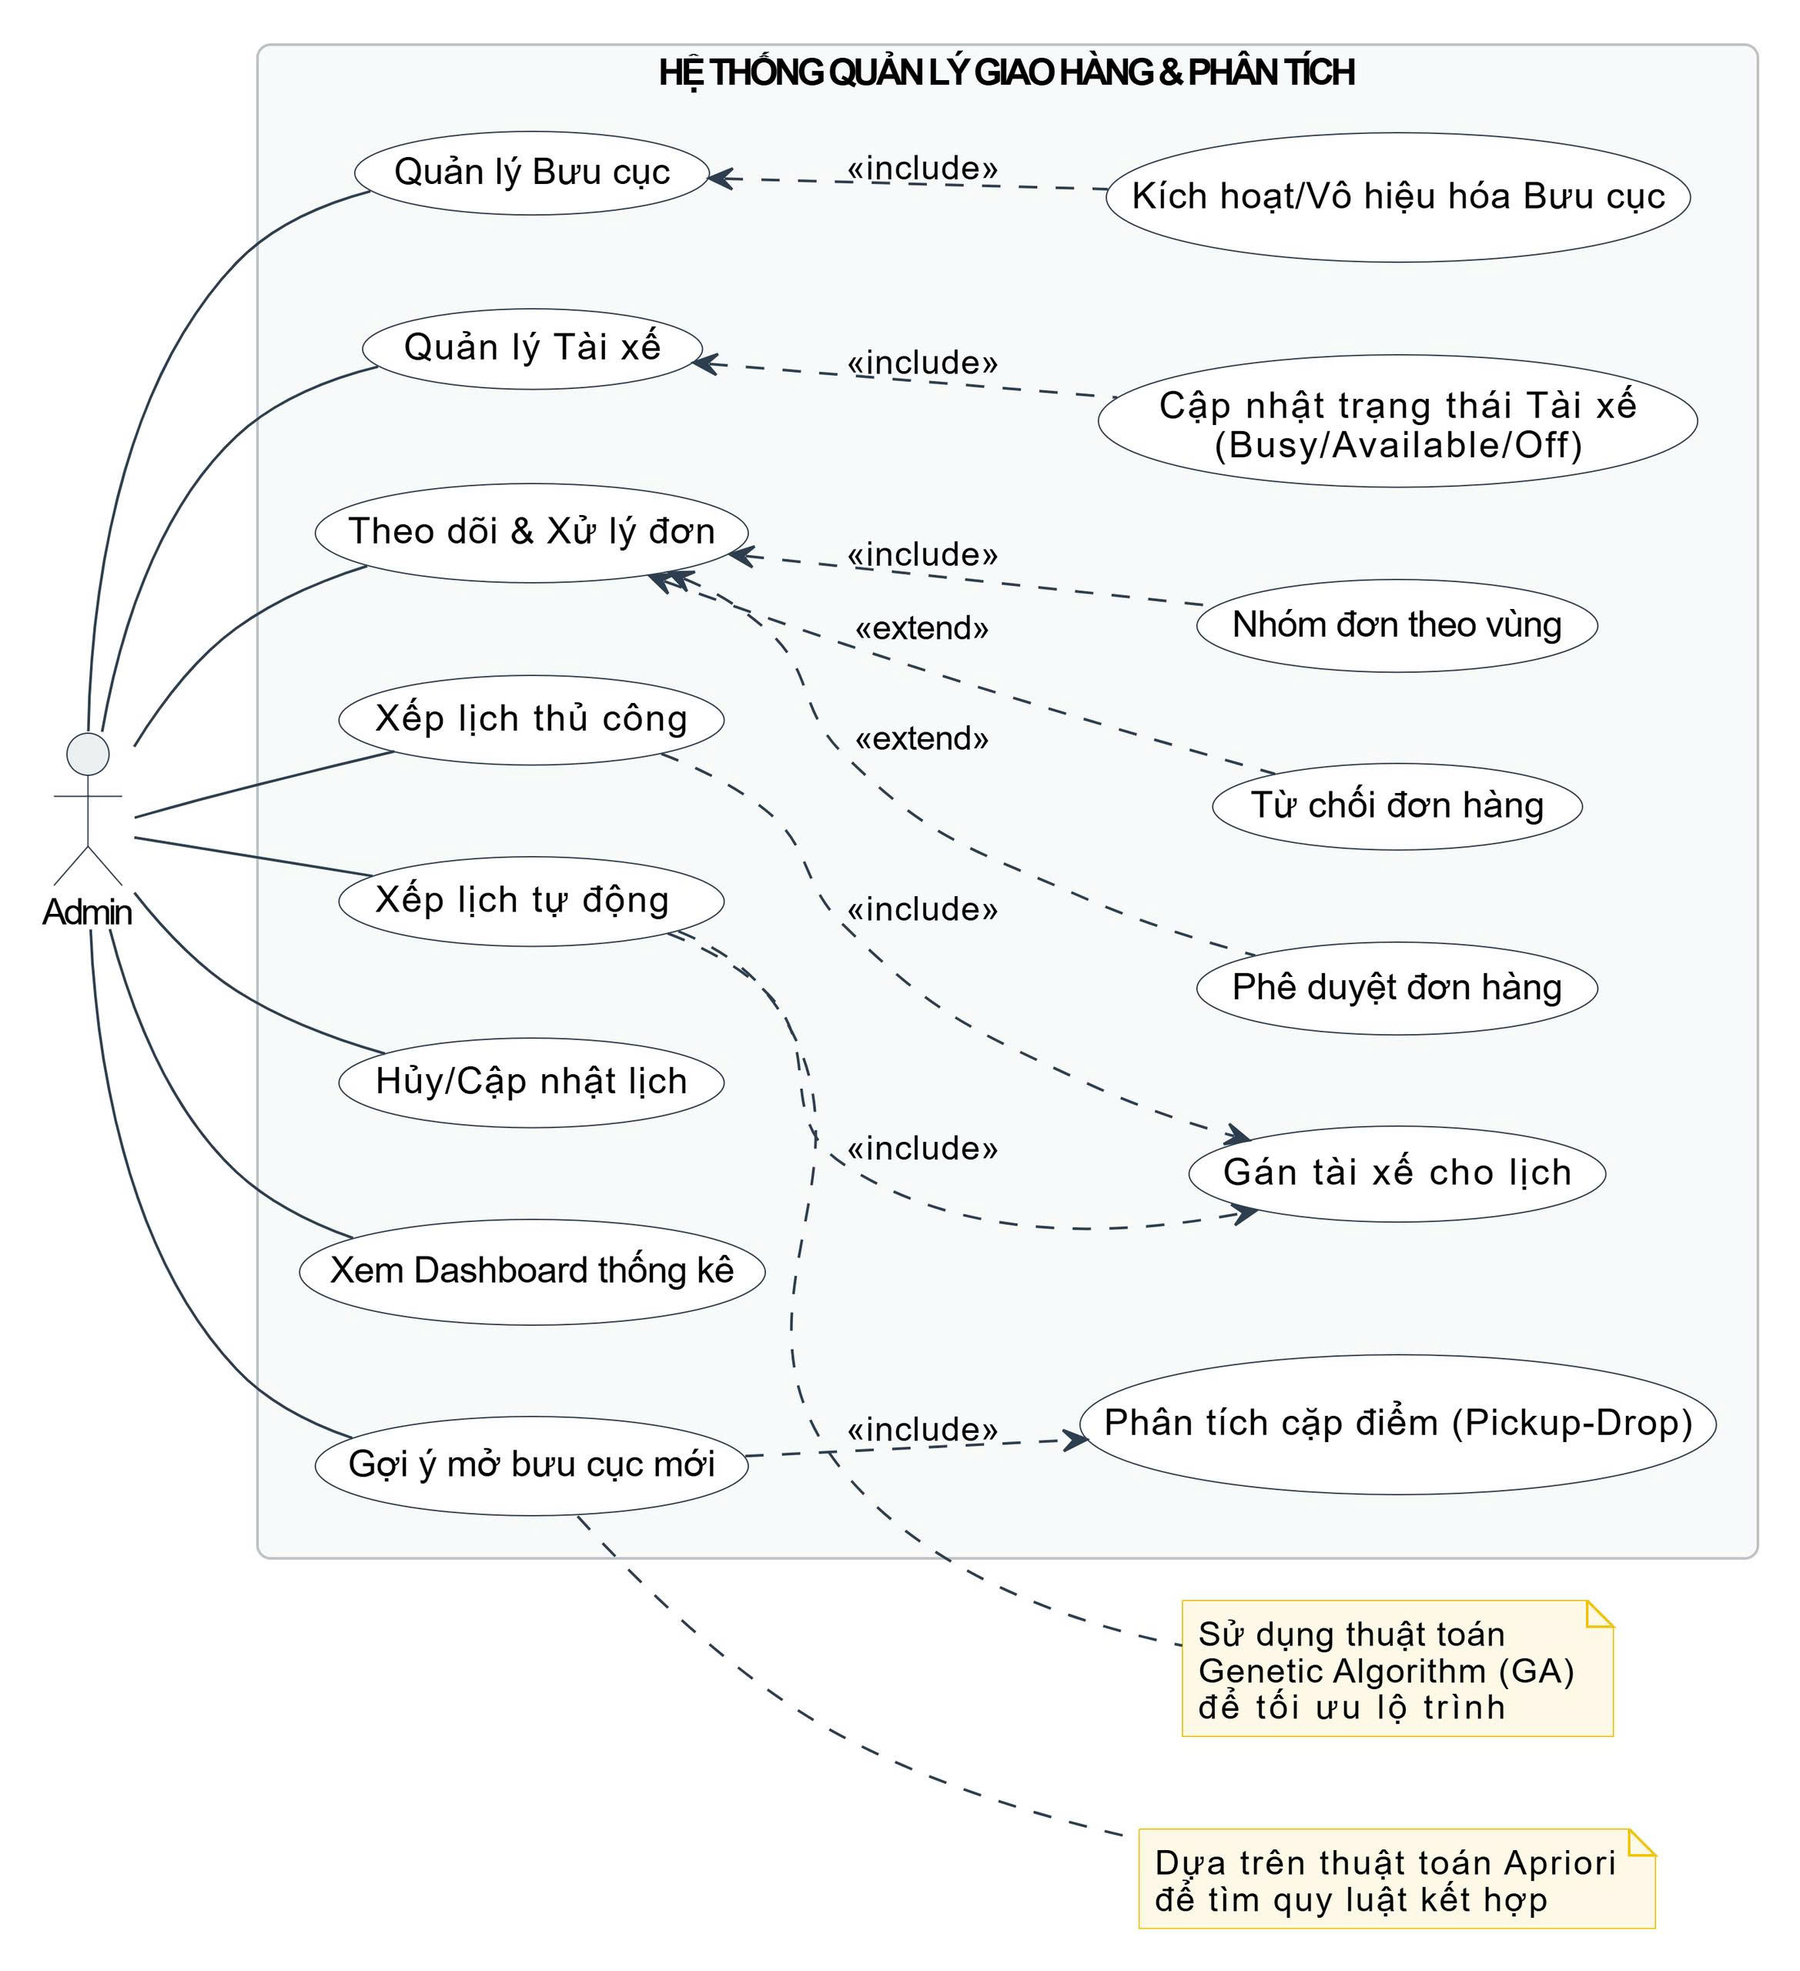
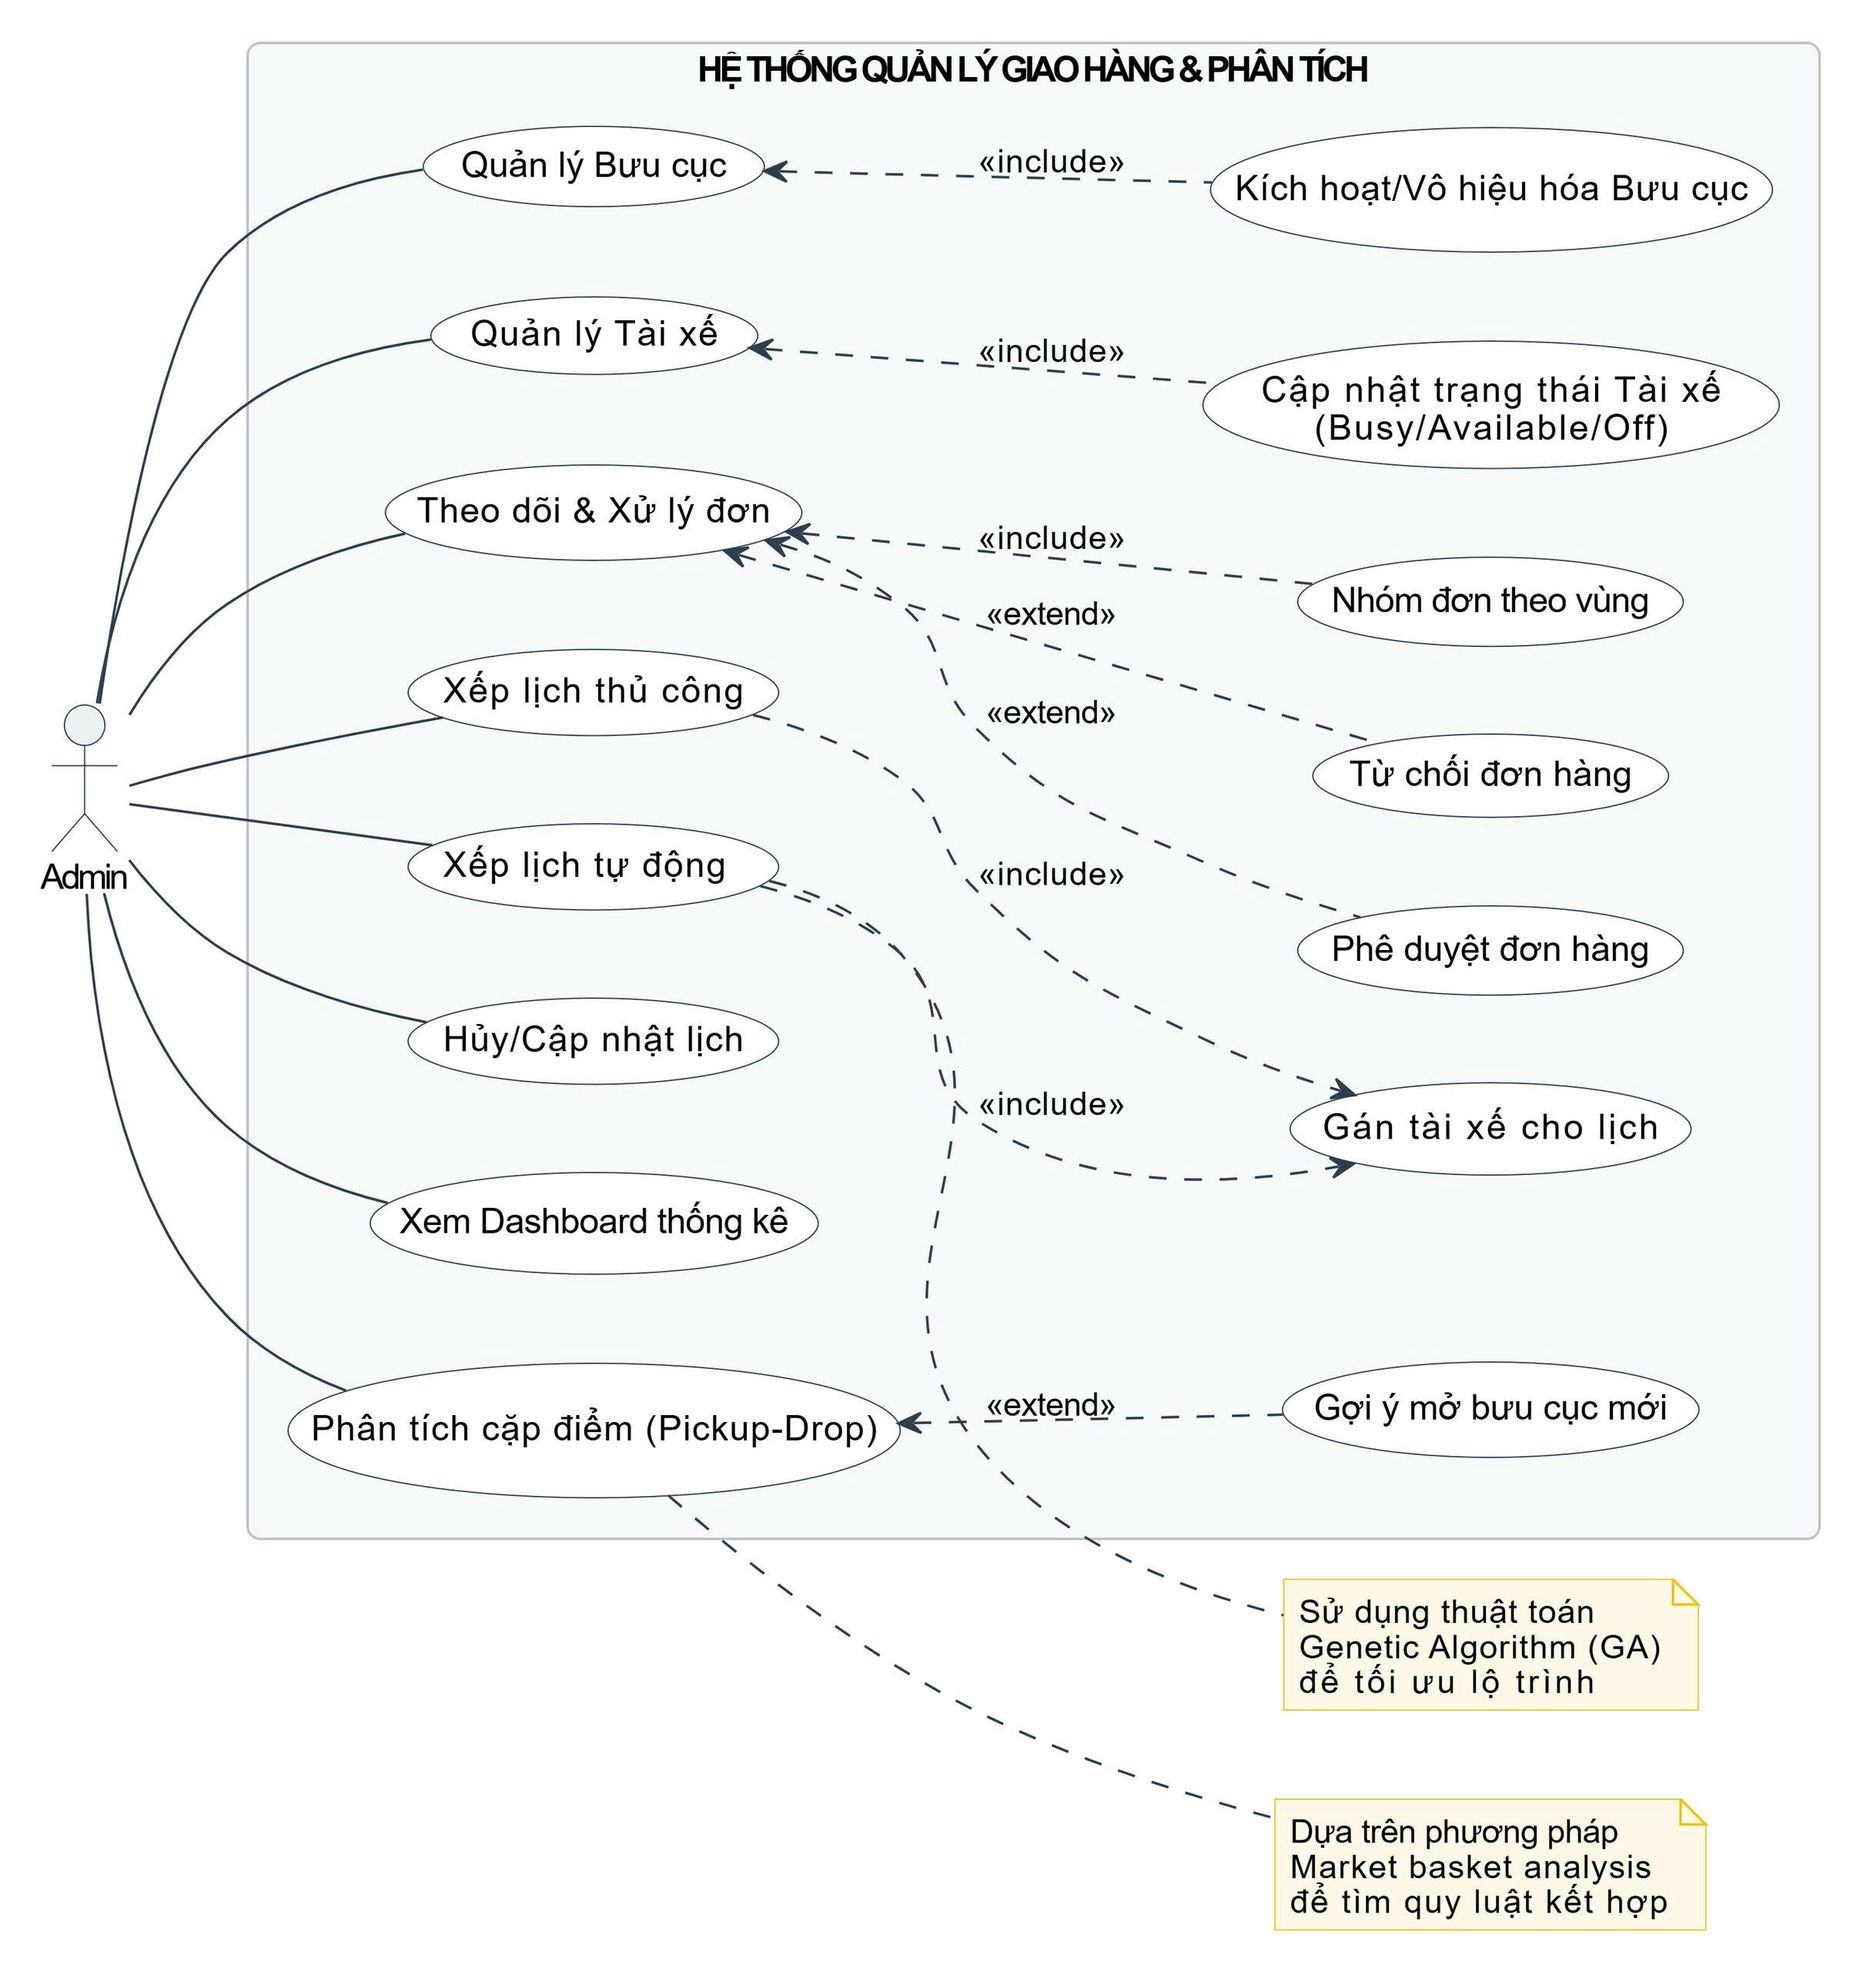
update

diff --git a/chapters/chapter3/section3-1.tex b/chapters/chapter3/section3-1.tex
@@ -1085,27 +1085,31 @@ Dưới đây là bảng đặc tả chi tiết cho các Use case quan trọng c
 \end{tabular}
 \end{table}
 
-% --- UC-08: GỢI Ý MỞ BƯU CỤC MỚI ---
+% --- UC-22: PHÂN TÍCH CẶP ĐIỂM ---
 \begin{table}[H]
 \centering
-\caption{UC-22: Gợi ý mở bưu cục mới (Analytics)}
+\caption{UC-22: Phân tích cặp điểm giao nhận }
 \renewcommand{\arraystretch}{1.3}
 \begin{tabular}{|p{3.5cm}|p{11cm}|}
 \hline
-\textbf{Tên Use Case} & Gợi ý mở bưu cục mới \\ \hline
+\textbf{Tên Use Case} & Phân tích cặp điểm giao nhận \\ \hline
 \textbf{Actor} & Admin  \\ \hline
-\textbf{Mô tả} & Hệ thống sử dụng thuật toán phân tích giỏ hàng (Market Basket Analysis - Apriori) để phân tích tần suất các tuyến đường và gợi ý vị trí tiềm năng đặt bưu cục mới. \\ \hline
-\textbf{Tiền điều kiện} & Dữ liệu lịch sử đơn hàng đủ lớn được lưu trong Database. \\ \hline
+\textbf{Mô tả} & Hệ thống sử dụng kỹ thuật để khai phá dữ liệu, tìm ra mối tương quan và tần suất xuất hiện cùng nhau giữa điểm lấy hàng (Pickup) và điểm giao hàng (Drop), từ đó nhận diện các "tuyến đường nóng". \\ \hline
+\textbf{Tiền điều kiện} & Dữ liệu lịch sử đơn hàng (gồm tọa độ nhận/giao) đủ lớn và đã được làm sạch. \\ \hline
 \textbf{Luồng chính} &
 \begin{enumerate}
-    \item Actor chọn module Phân tích nâng cao.
-    \item Actor chọn chức năng "Gợi ý địa điểm".
-    \item Actor thiết lập tham số (Độ hỗ trợ tối thiểu - Min Support).
-    \item Hệ thống chạy thuật toán khai phá dữ liệu trên các cặp điểm giao nhận phổ biến.
-    \item Hệ thống hiển thị danh sách các khu vực có nhu cầu cao nhưng chưa có bưu cục phủ sóng.
-    \item Hệ thống hiển thị dự báo doanh thu nếu mở bưu cục tại đó.
+    \item Actor chọn module phân tích vận hành.
+    \item Actor chọn chức năng phân tích luồng tuyến.
+    \item Actor thiết lập tham số đầu vào: Khoảng thời gian, Loại xe, và Ngưỡng hỗ trợ tối thiểu .
+    \item Hệ thống chạy thuật toán Market Basket Analysis trên tập dữ liệu đã lọc.
+    \item Hệ thống hiển thị kết quả
 \end{enumerate} \\ \hline
-\textbf{Hậu điều kiện} & Admin có dữ liệu định lượng để quyết định chiến lược mở rộng. \\ \hline
+\textbf{Luồng mở rộng} &
+\textbf{Tại bước 5 :} Nếu một cặp điểm có chỉ số Lift cao vượt ngưỡng nhưng chưa có bưu cục trung gian:
+\begin{enumerate}
+    \item[5a.] Hệ thống thực hiện Use Case mở rộng: "Gợi ý mở bưu cục mới".
+    \item[5b.] Hệ thống đánh dấu vị trí tiềm năng trên bản đồ và hiển thị dự báo hiệu quả nếu mở bưu cục tại đó.
+\end{enumerate} \\ \hline
+\textbf{Hậu điều kiện} & Admin nắm được xu hướng di chuyển của đơn hàng và nhận được các đề xuất mở rộng mạng lưới (nếu có). \\ \hline
 \end{tabular}
 \end{table}
-
